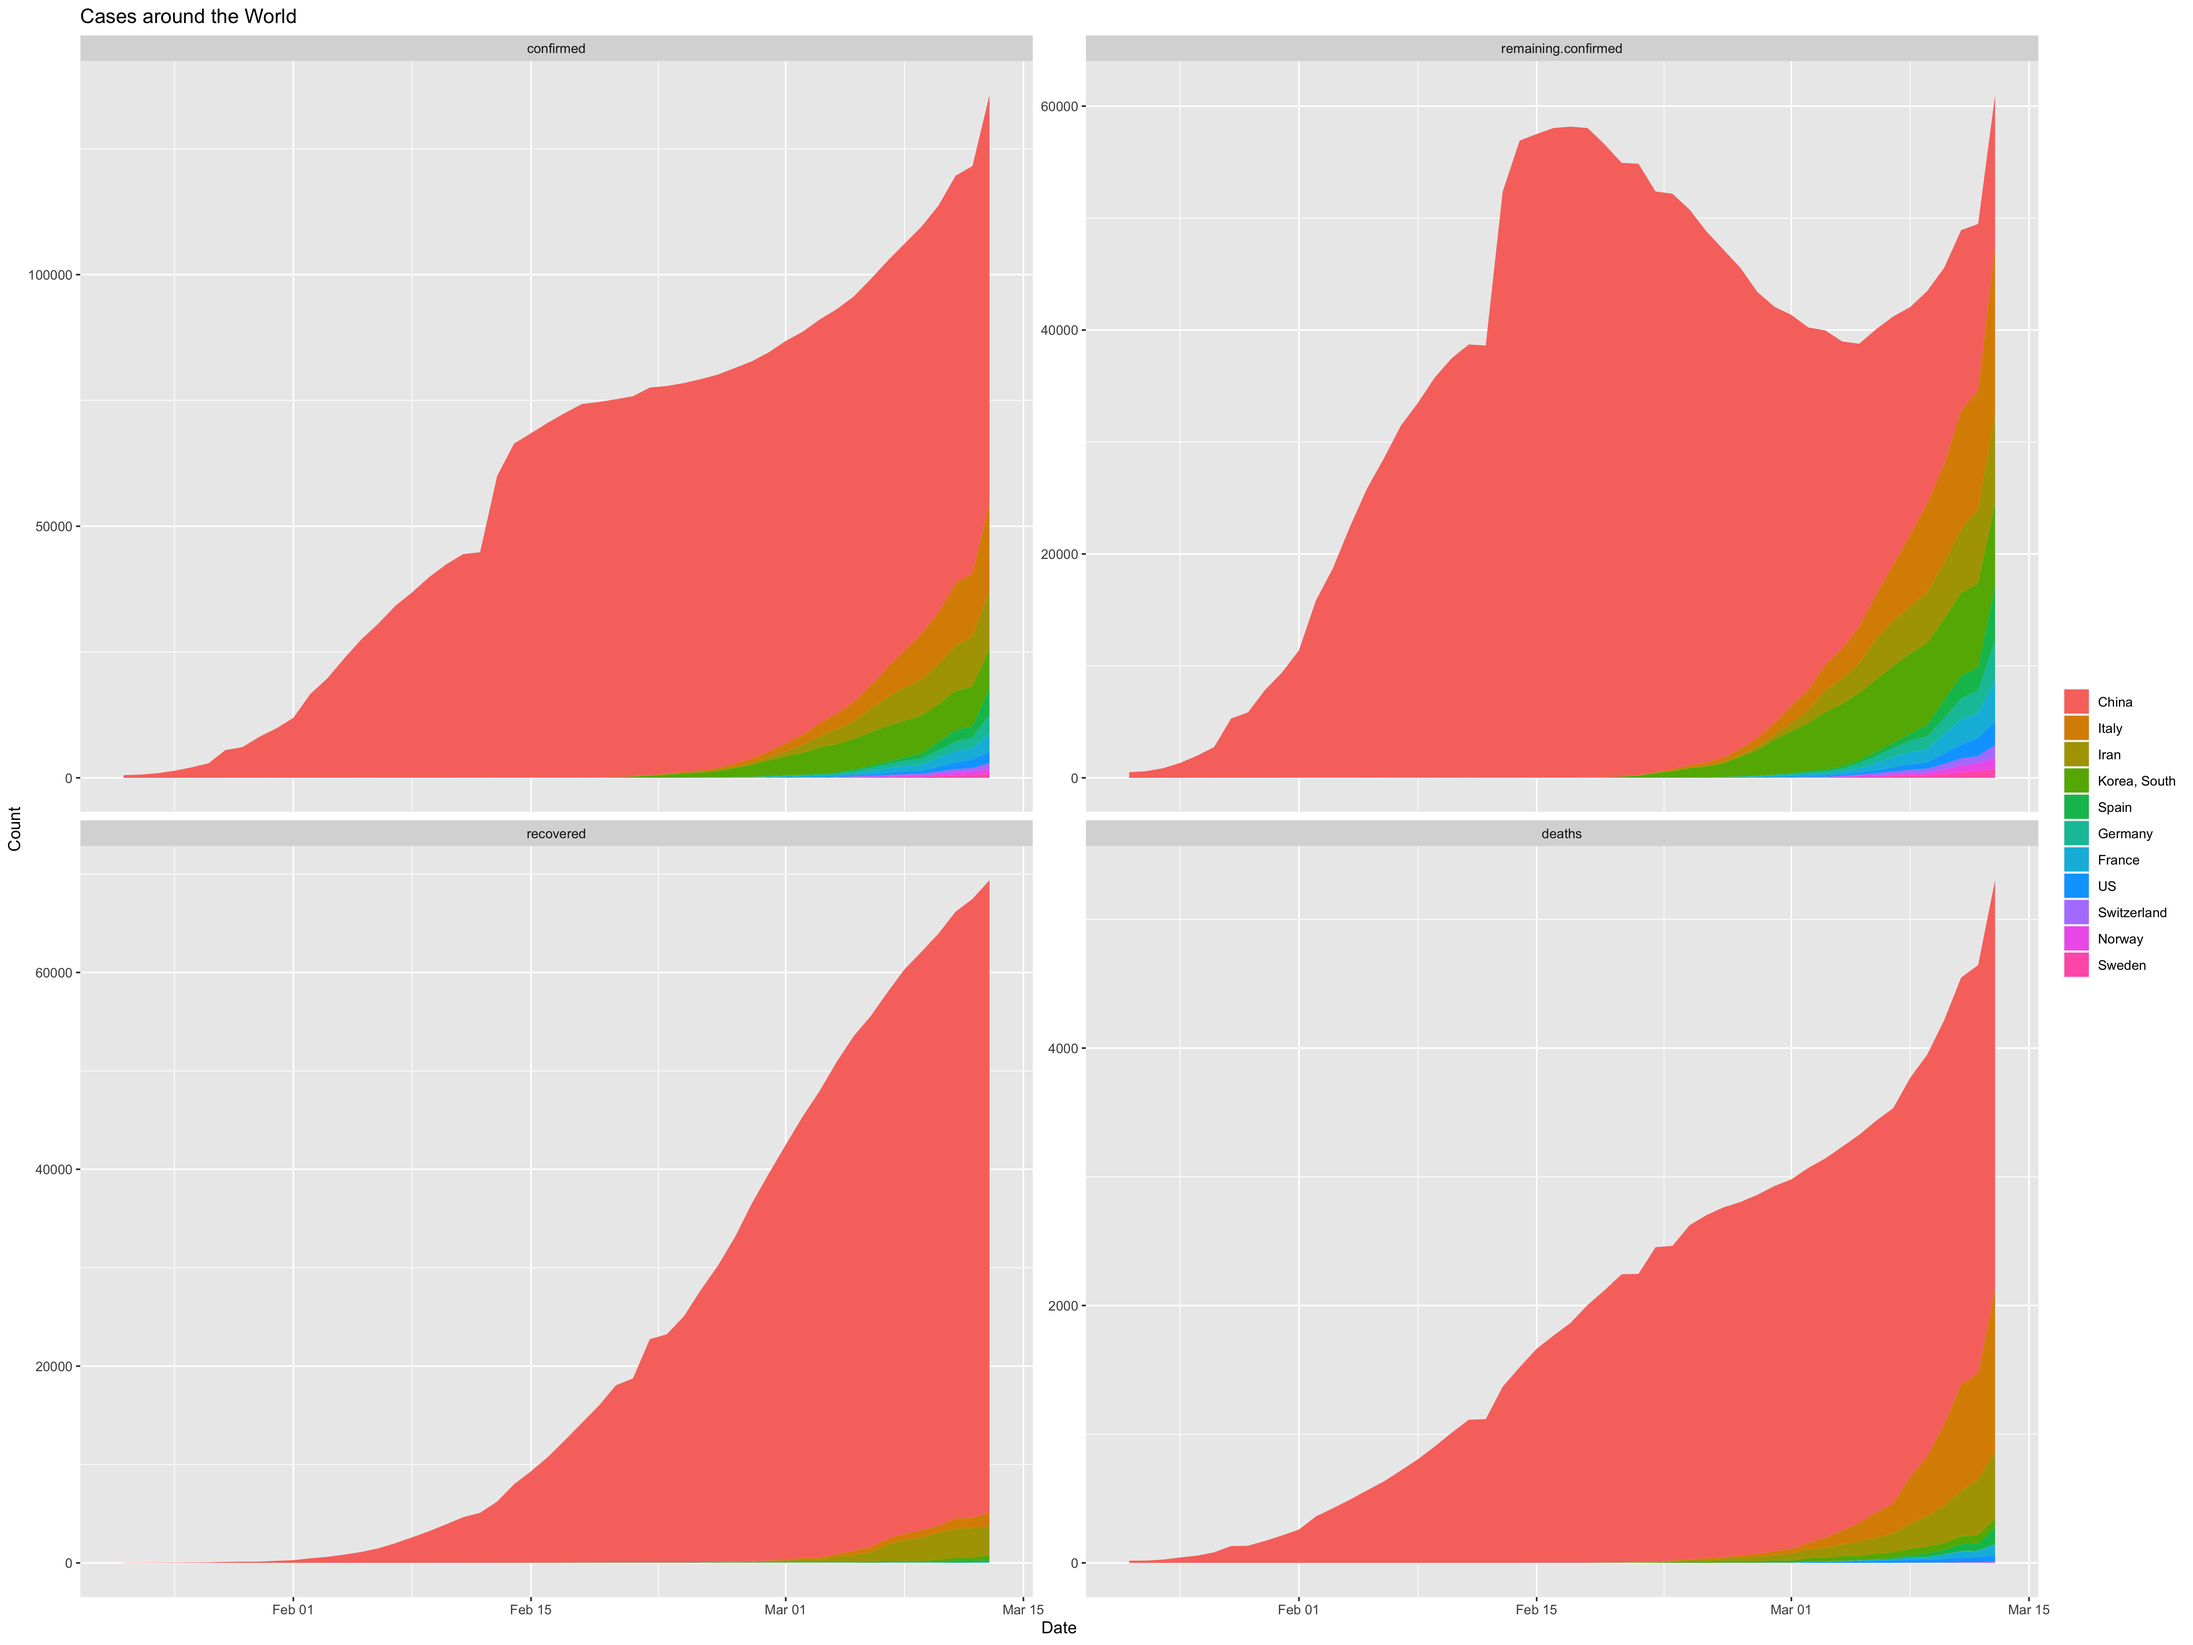
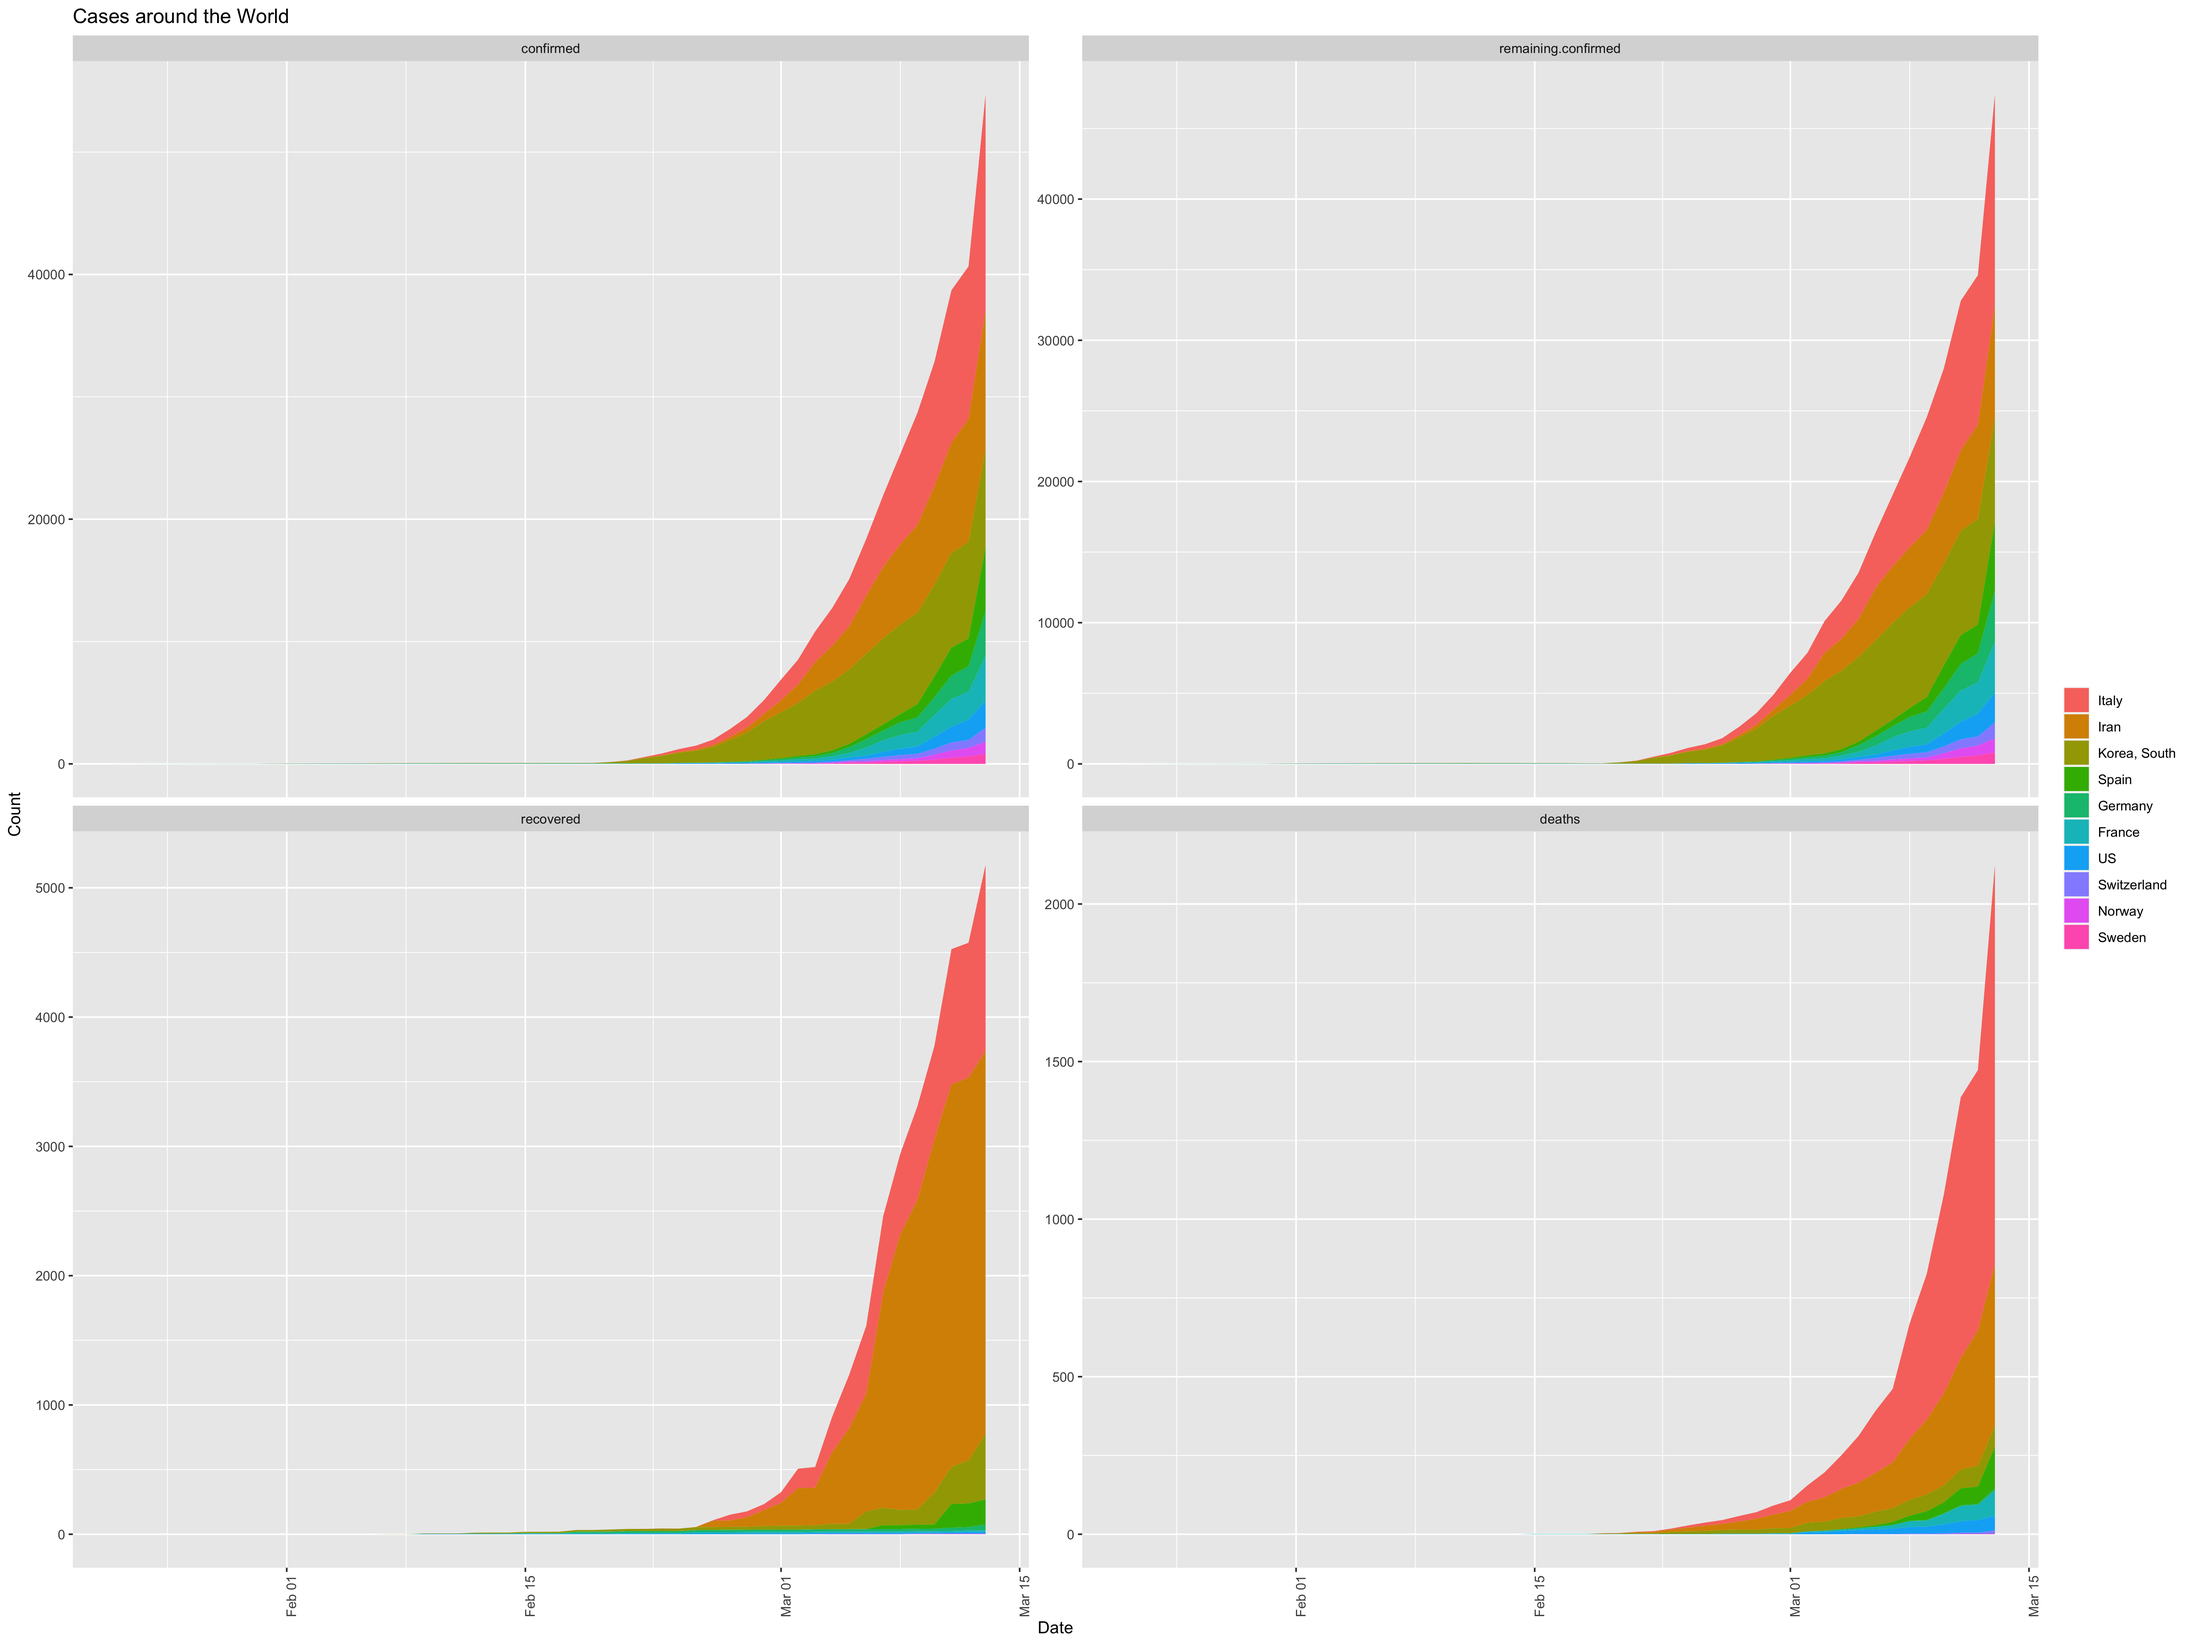
[bugfix] wo-china plots

Changed region(s): [[0.0312, 0.0, 0.9973, 0.9956], [0.9038, 0.7778, 0.935, 0.8089]]

diff --git a/README.md b/README.md
@@ -124,7 +124,9 @@ rg$data.confirmed.original[, 1:10] %>% sample_n(10) %>%
 # ![top-countries-bar-plot](https://github.com/kenarab/COVID19/blob/master/inst/extdata/top-countries-bar-plot.png)
 # ![top-countries-pie-wo-china](https://github.com/kenarab/COVID19/blob/master/inst/extdata/top-countries-pie-wo-china.png)
 # ![top-countries-bar-plot-wo-china](https://github.com/kenarab/COVID19/blob/master/inst/extdata/top-countries-bar-plot-wo-china.png)
+# Including Australia
 # ![countries-bar-plot-australia](https://github.com/kenarab/COVID19/blob/master/inst/extdata/countries-bar-plot-australia.png)
+# Including Argentina
 # ![countries-bar-plot-argentina](https://github.com/kenarab/COVID19/blob/master/inst/extdata/countries-bar-plot-argentina.png)
 
 # Sources of code and information
